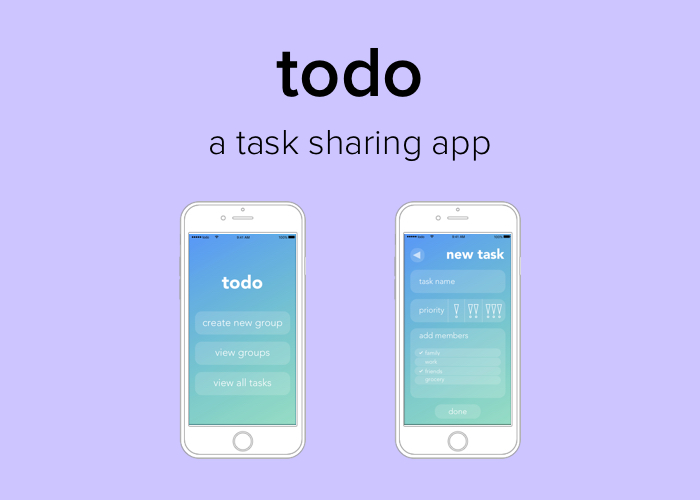
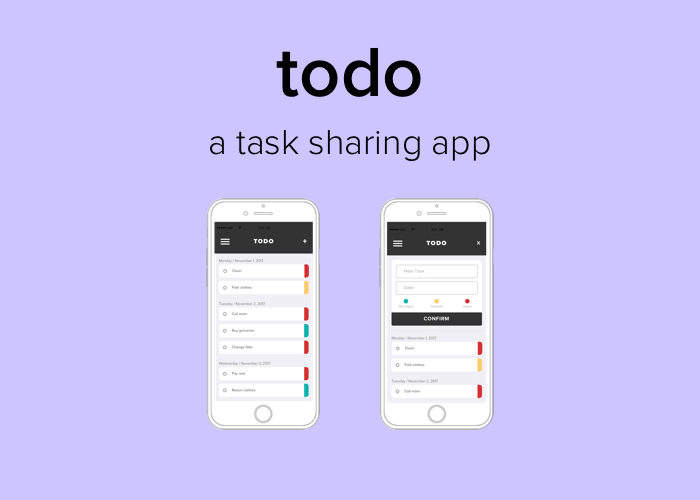
updated app

Changed region(s): [[0.24, 0.39, 0.48, 0.93], [0.54, 0.39, 0.75, 0.93]]

diff --git a/todo.html b/todo.html
@@ -76,22 +76,19 @@
         <p><b>Process</b></p>
         <p>To start, I downloaded other todo mobile and web applications and searched for their strengths and weaknesses.</p>
         <p>Paper Prototypes</p>
-        <img src="https://image.prntscr.com/image/ifyaCAIQTKunklHygWNTIw.png" style="width: 75%">
+        <img src="images/paper.png" style="height: 400px">
         <p></p>
         <p>User Studies</p>
         <p>I recruited colleagues and friends to conduct task analyses using the paper prototype. The main takeaways I discovered were:</p>
         <ul>
             <li>To add a complete/done button after creating a new group or a new task (make it more obvious how to “complete” a task)</li>
             <li>Show priority in the task list</li>
-            <li>Change focus to be more group-centered rather than task centered</li>
+            <li>Be able to see old tasks when making a new task</li>
         </ul>
         <p><b>Design Considerations</b></p>
-        <p>I mainly took into consideration the ease in which a user should be able to create and share a task. I kept the action of adding a task to a group simple, allowing a user to name the task, select its priority, and choose which groups to share the task to. I made the background of the app a gradient of blue and green as it matches the color of the social connection icons (contacts list, Facebook, email). It is a subtle, calming color that does not affect the readability of the text on the screen.</p>
-        <p><b>Design Rationale</b></p>
-        <p>I believed that it would be more organized for tasks to be placed in set groups “pages” instead of having members being assigned to a task each time. By doing so, it easily allows the user to separate out which tasks are for what group (i.e. family, work, etc), instead of viewing a gigantic list of unorganized tasks (the user would have to click into a task to view to whom it was shared with.) Also, as of now, navigating through the app works through a series of clicks. However, the one feature I would also want to be done through swiping would be the deletion feature. The majority of apps today with listed items may also be deleted through swiping left and seeing a delete option on that item similar to what I have designed to happen if the trash icon is clicked. But just in case, I would want to incorporate both the swipe and the trash icon. While the swipe is more intuitive and efficient for knowledgeable users, it is not nearly as intuitive for new users as the trash can icon.</p>
+        <p>I mainly took into consideration the ease in which a user should be able to create. I kept the action of adding a new task simple, allowing a user to name the task, choose a date, and select its priority.</p>
         <p><b>Product</b></p>
-        <p>The final product was a high-fidelity prototype created with Sketch and InVision.</p>
-        <p>Link to the live prototype on InVision: <a href="https://invis.io/48DMVCFKU">https://invis.io/48DMVCFKU</a>.</p>
+        <img src="files/todo.png" style="width: 75%">
       </div>
       <div class="col-md-2"></div>
     </div>
